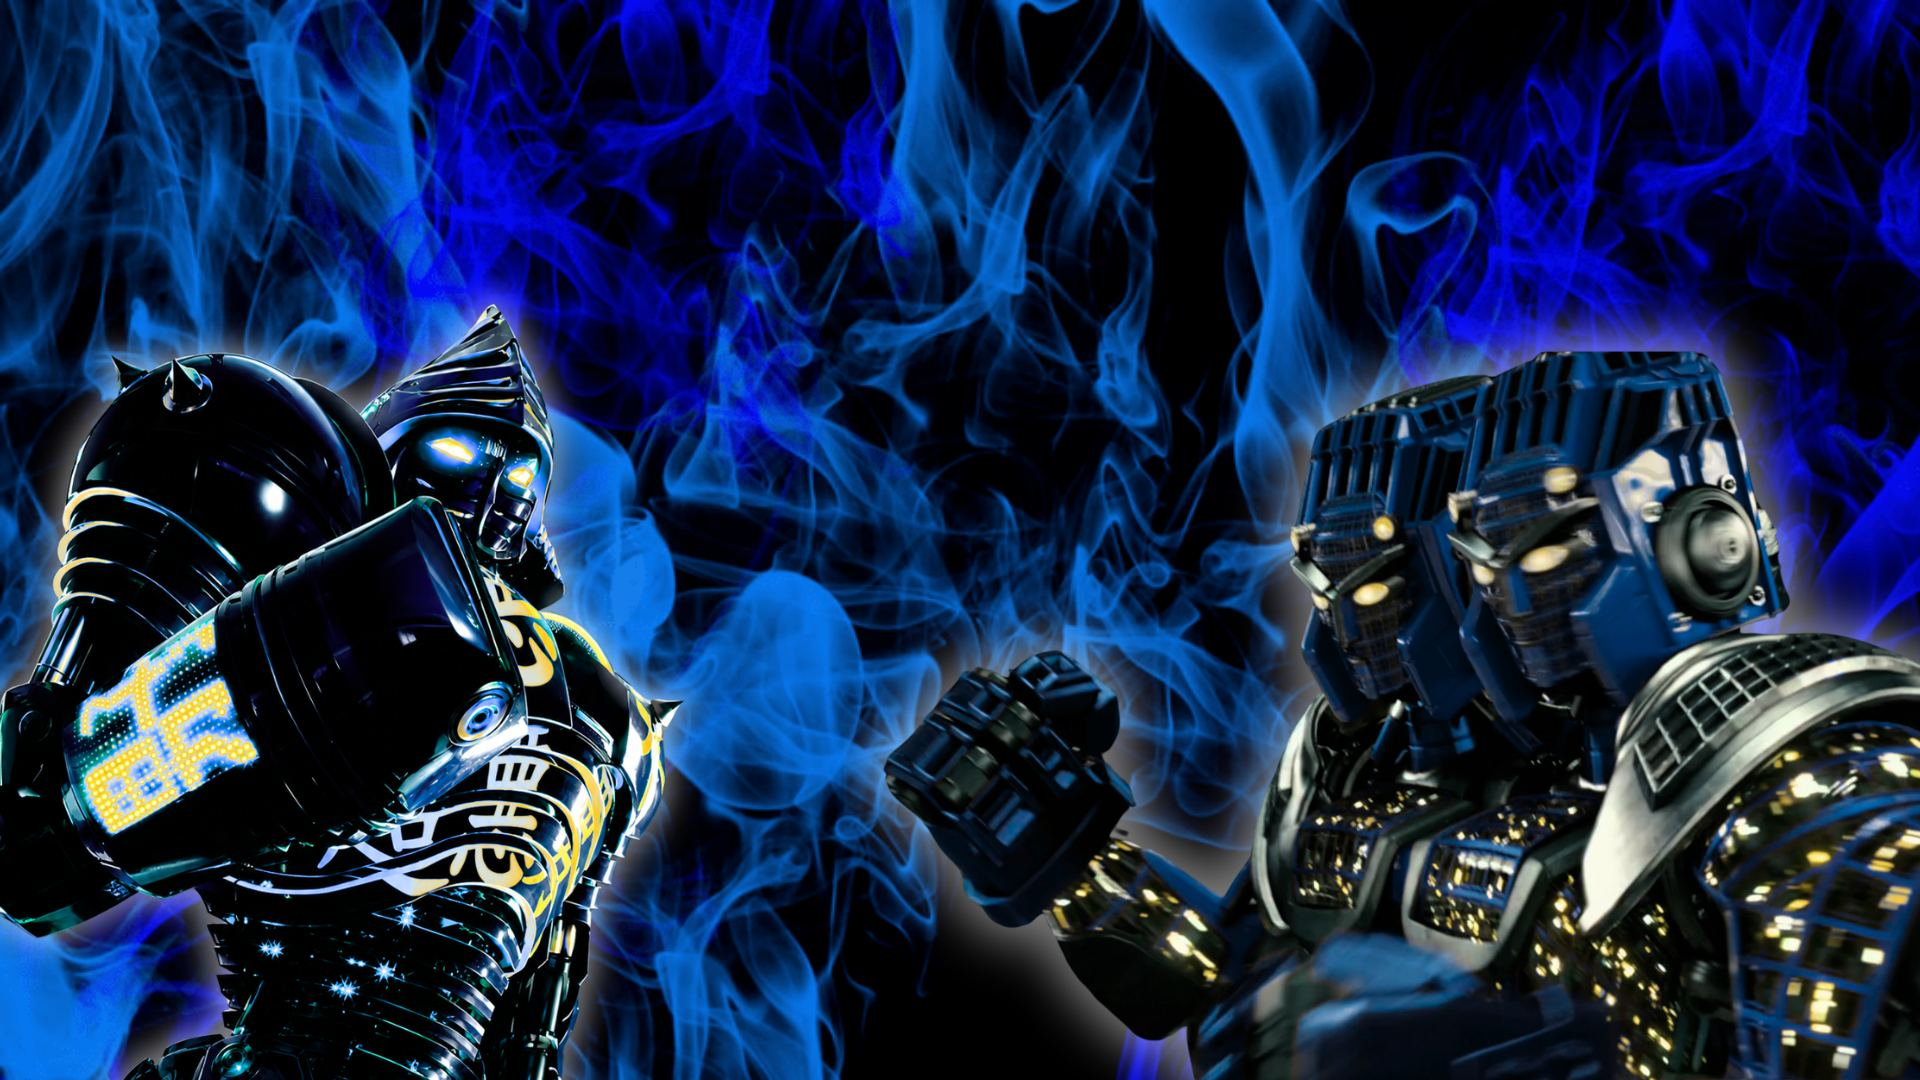
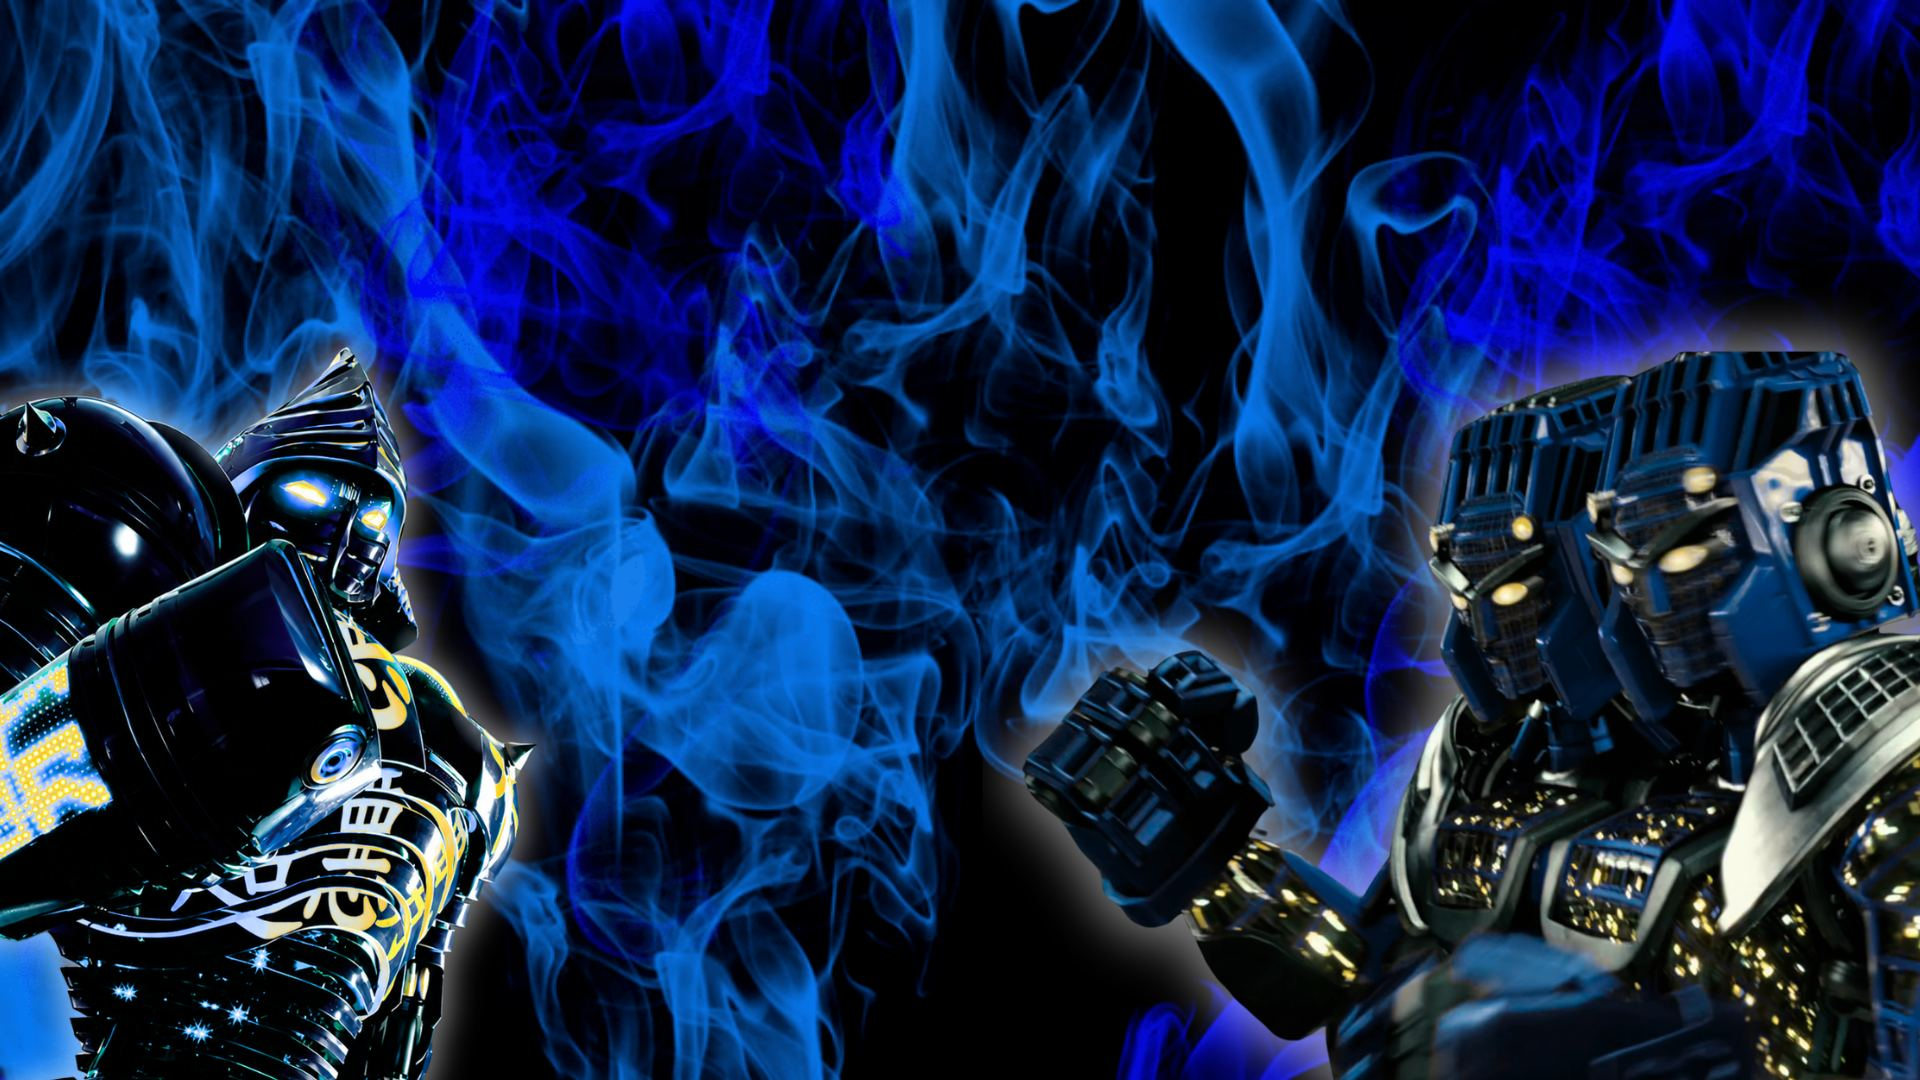
Use new background artwork and remove light/dark toggle
Claude-Session: https://claude.ai/code/session_01UrzSpbG2VhTJGwgdXRng7B

diff --git a/index.html b/index.html
@@ -7,7 +7,6 @@
 <style id="app-style">
[1 lines of base64/hex data omitted]
 :root{--bg:#0a1534;--nav:#0f2557;--ink:#f4f7ff;--mute:#8ec5ff;--panel:#112a66;--line:#0b1a45;--acc:#3e61ef;--yellow:#ffbe27;--yellow-d:#b57f00;--sky:#8ec5ff;--navy:#0f2557;--ink-d:#0b1a45;--soft:#e3f0ff;--win:#0d6b3a;--winbg:#d8f6e4;--dot:#46d97b;--shadow:rgba(0,0,0,.45);--veil:rgba(8,18,48,.5);color-scheme:dark;padding-top:env(safe-area-inset-top,0px);padding-bottom:env(safe-area-inset-bottom,0px)}
-:root[data-theme="light"]{--bg:#e6efff;--ink:#0f2557;--mute:#2f55d4;--panel:#ffffff;--soft:#e3f0ff;--shadow:rgba(15,37,87,.35);--veil:rgba(230,239,255,.78);color-scheme:light}
 html{scroll-padding-top:env(safe-area-inset-top,0px)}
 *{box-sizing:border-box}
 body{margin:0;overflow-x:hidden;color:var(--ink);font-family:Prompt,"Noto Sans Thai","Sarabun",system-ui,sans-serif;font-synthesis:none;line-height:1.5;background:var(--bg)}
@@ -17,10 +16,7 @@ h1{font-size:26px;font-weight:800;margin:0;color:#fff;text-shadow:2px 2px 0 var(
 .sub{display:flex;align-items:center;gap:8px;color:var(--mute);margin:0 0 18px;font-size:14px;font-weight:600}
 .sub::before{content:"";width:9px;height:9px;border-radius:50%;background:var(--dot);box-shadow:0 0 0 3px rgba(70,217,123,.25);flex:none}
 a{color:var(--sky);font-weight:600}
-:root[data-theme="light"] a{color:var(--acc)}
-.top{display:grid;grid-template-columns:40px 1fr 40px;align-items:center;gap:8px;text-align:center;background:var(--nav);margin:-20px calc(50% - 50vw) 20px;padding:14px calc(50vw - 50%);border-bottom:4px solid var(--yellow);box-shadow:0 6px 0 var(--ink-d)}
-.top::before{content:""}
-.btn.ico{padding:8px;line-height:0;border-radius:50%;flex:none;justify-self:end;background:var(--sky);color:var(--ink-d)}
+.top{display:flex;justify-content:center;align-items:center;text-align:center;background:var(--nav);margin:-20px calc(50% - 50vw) 20px;padding:14px calc(50vw - 50%);border-bottom:4px solid var(--yellow);box-shadow:0 6px 0 var(--ink-d)}
 .bar{display:flex;flex-wrap:wrap;gap:10px;align-items:center;margin-bottom:14px}
 .bar .grow{flex:1}
 button{font:inherit;cursor:pointer;color:inherit}
@@ -37,16 +33,12 @@ button:focus-visible,input:focus-visible,a:focus-visible{outline:3px solid var(-
 .msg.warn{color:var(--yellow)}
 .msg.err{color:#ff7f8e}
 .msg.ok{color:var(--dot)}
-:root[data-theme="light"] .msg.warn{color:#9a6a00}
-:root[data-theme="light"] .msg.err{color:#d7263d}
-:root[data-theme="light"] .msg.ok{color:var(--win)}
 #names{display:none;background:var(--panel);border:2.5px solid var(--ink-d);border-radius:12px;padding:14px;margin-bottom:16px;box-shadow:4px 4px 0 var(--shadow)}
 #names.on{display:block}
 #names p{margin:0 0 10px;font-size:14px;color:var(--mute)}
 .ng{display:grid;grid-template-columns:repeat(auto-fill,minmax(150px,1fr));gap:8px}
 .ng label{display:flex;align-items:center;gap:6px;font-size:13px}
 .ng b{width:18px;color:var(--yellow);font-weight:800}
-:root[data-theme="light"] .ng b{color:var(--acc)}
 .ng input{flex:1;min-width:0;font:inherit;font-size:14px;padding:5px 8px;border:2px solid var(--ink-d);border-radius:8px;background:#fff;color:var(--navy)}
 .scroll{overflow-x:auto;padding:8px 0 12px;background:var(--panel);border:3px solid var(--ink-d);border-radius:0;box-shadow:none}
 #scaler{margin:0 auto}
@@ -202,7 +194,7 @@ function updText(){
   try{return 'อัปเดตล่าสุด '+new Date(saved.updated).toLocaleString('th-TH',{dateStyle:'medium',timeStyle:'short'})}catch(e){return ''}
 }
 function skeleton(adm){
-  return `<div class="top"><h1>${adm?'จัดการสายการแข่งขัน Real Steel':'สายการแข่งขัน Real Steel'}</h1><button class="btn ico" id="themeBtn" aria-label="สลับโหมดสว่าง/มืด"></button></div>
+  return `<div class="top"><h1>${adm?'จัดการสายการแข่งขัน Real Steel':'สายการแข่งขัน Real Steel'}</h1></div>
 <p class="sub"></p>
 <div class="bar">${adm?'<button class="btn pri" id="saveBtn">บันทึกและเผยแพร่</button><button class="btn" id="editBtn">แก้ไขชื่อผู้เล่น</button><button class="btn danger" id="resetBtn">ล้างผลการแข่ง</button><a class="btn" href="#">ดูหน้าผู้ชม</a><button class="btn" id="outBtn">ออกจากระบบ</button>':''}<span class="grow"></span><span class="prog" id="prog"></span></div>
 ${adm?'<div class="msg" id="msg"></div><div id="names"><p>พิมพ์ชื่อใหม่ได้เลย (ค่าเริ่มต้น A–P) ผลที่เลือกไว้จะอยู่กับผู้เล่นคนเดิม</p><div class="ng" id="ng"></div><p style="margin:10px 0 0"><button class="btn" id="nameReset">คืนค่าชื่อเป็น A–P</button></p></div>':''}
@@ -256,10 +248,6 @@ function route(){
   const adm=isAdm();
   if(adm&&!loggedIn()){showLogin();return}
   $('app').innerHTML=skeleton(adm);
-  themeIcon();$('themeBtn').onclick=()=>{
-    const r=document.documentElement,dark=r.dataset.theme!=='light';
-    r.dataset.theme=dark?'light':'dark';themeIcon();
-  };
   if(adm){
     const ng=$('ng');
     ng.innerHTML=S.names.map((n,i)=>`<label><b>${L[i]}</b><input maxlength="24" data-i="${i}" value="${esc(n)}"></label>`).join('');
@@ -287,13 +275,6 @@ function route(){
     };
   }
   draw();
-}
-const SUN='<svg viewBox="0 0 24 24" width="20" height="20" fill="none" stroke="currentColor" stroke-width="2" stroke-linecap="round"><circle cx="12" cy="12" r="4" fill="currentColor"/><path d="M12 2v2M12 20v2M4.9 4.9l1.4 1.4M17.7 17.7l1.4 1.4M2 12h2M20 12h2M4.9 19.1l1.4-1.4M17.7 6.3l1.4-1.4"/></svg>';
-const MOON='<svg viewBox="0 0 24 24" width="20" height="20" fill="currentColor"><path d="M21 12.8A9 9 0 1 1 11.2 3a7 7 0 0 0 9.8 9.8z"/></svg>';
-function themeIcon(){
-  const r=document.documentElement,b=$('themeBtn');if(!b)return;
-  const dark=r.dataset.theme!=='light';
-  b.innerHTML=dark?SUN:MOON;
 }
 function fit(){}
 addEventListener('resize',fit);

diff --git a/สายการแข่งขัน Real Steel.html b/สายการแข่งขัน Real Steel.html
@@ -7,7 +7,6 @@
 <style id="app-style">
[1 lines of base64/hex data omitted]
 :root{--bg:#0a1534;--nav:#0f2557;--ink:#f4f7ff;--mute:#8ec5ff;--panel:#112a66;--line:#0b1a45;--acc:#3e61ef;--yellow:#ffbe27;--yellow-d:#b57f00;--sky:#8ec5ff;--navy:#0f2557;--ink-d:#0b1a45;--soft:#e3f0ff;--win:#0d6b3a;--winbg:#d8f6e4;--dot:#46d97b;--shadow:rgba(0,0,0,.45);--veil:rgba(8,18,48,.5);color-scheme:dark;padding-top:env(safe-area-inset-top,0px);padding-bottom:env(safe-area-inset-bottom,0px)}
-:root[data-theme="light"]{--bg:#e6efff;--ink:#0f2557;--mute:#2f55d4;--panel:#ffffff;--soft:#e3f0ff;--shadow:rgba(15,37,87,.35);--veil:rgba(230,239,255,.78);color-scheme:light}
 html{scroll-padding-top:env(safe-area-inset-top,0px)}
 *{box-sizing:border-box}
 body{margin:0;overflow-x:hidden;color:var(--ink);font-family:Prompt,"Noto Sans Thai","Sarabun",system-ui,sans-serif;font-synthesis:none;line-height:1.5;background:var(--bg)}
@@ -17,10 +16,7 @@ h1{font-size:26px;font-weight:800;margin:0;color:#fff;text-shadow:2px 2px 0 var(
 .sub{display:flex;align-items:center;gap:8px;color:var(--mute);margin:0 0 18px;font-size:14px;font-weight:600}
 .sub::before{content:"";width:9px;height:9px;border-radius:50%;background:var(--dot);box-shadow:0 0 0 3px rgba(70,217,123,.25);flex:none}
 a{color:var(--sky);font-weight:600}
-:root[data-theme="light"] a{color:var(--acc)}
-.top{display:grid;grid-template-columns:40px 1fr 40px;align-items:center;gap:8px;text-align:center;background:var(--nav);margin:-20px calc(50% - 50vw) 20px;padding:14px calc(50vw - 50%);border-bottom:4px solid var(--yellow);box-shadow:0 6px 0 var(--ink-d)}
-.top::before{content:""}
-.btn.ico{padding:8px;line-height:0;border-radius:50%;flex:none;justify-self:end;background:var(--sky);color:var(--ink-d)}
+.top{display:flex;justify-content:center;align-items:center;text-align:center;background:var(--nav);margin:-20px calc(50% - 50vw) 20px;padding:14px calc(50vw - 50%);border-bottom:4px solid var(--yellow);box-shadow:0 6px 0 var(--ink-d)}
 .bar{display:flex;flex-wrap:wrap;gap:10px;align-items:center;margin-bottom:14px}
 .bar .grow{flex:1}
 button{font:inherit;cursor:pointer;color:inherit}
@@ -37,16 +33,12 @@ button:focus-visible,input:focus-visible,a:focus-visible{outline:3px solid var(-
 .msg.warn{color:var(--yellow)}
 .msg.err{color:#ff7f8e}
 .msg.ok{color:var(--dot)}
-:root[data-theme="light"] .msg.warn{color:#9a6a00}
-:root[data-theme="light"] .msg.err{color:#d7263d}
-:root[data-theme="light"] .msg.ok{color:var(--win)}
 #names{display:none;background:var(--panel);border:2.5px solid var(--ink-d);border-radius:12px;padding:14px;margin-bottom:16px;box-shadow:4px 4px 0 var(--shadow)}
 #names.on{display:block}
 #names p{margin:0 0 10px;font-size:14px;color:var(--mute)}
 .ng{display:grid;grid-template-columns:repeat(auto-fill,minmax(150px,1fr));gap:8px}
 .ng label{display:flex;align-items:center;gap:6px;font-size:13px}
 .ng b{width:18px;color:var(--yellow);font-weight:800}
-:root[data-theme="light"] .ng b{color:var(--acc)}
 .ng input{flex:1;min-width:0;font:inherit;font-size:14px;padding:5px 8px;border:2px solid var(--ink-d);border-radius:8px;background:#fff;color:var(--navy)}
 .scroll{overflow-x:auto;padding:8px 0 12px;background:var(--panel);border:3px solid var(--ink-d);border-radius:0;box-shadow:none}
 #scaler{margin:0 auto}
@@ -202,7 +194,7 @@ function updText(){
   try{return 'อัปเดตล่าสุด '+new Date(saved.updated).toLocaleString('th-TH',{dateStyle:'medium',timeStyle:'short'})}catch(e){return ''}
 }
 function skeleton(adm){
-  return `<div class="top"><h1>${adm?'จัดการสายการแข่งขัน Real Steel':'สายการแข่งขัน Real Steel'}</h1><button class="btn ico" id="themeBtn" aria-label="สลับโหมดสว่าง/มืด"></button></div>
+  return `<div class="top"><h1>${adm?'จัดการสายการแข่งขัน Real Steel':'สายการแข่งขัน Real Steel'}</h1></div>
 <p class="sub"></p>
 <div class="bar">${adm?'<button class="btn pri" id="saveBtn">บันทึกและเผยแพร่</button><button class="btn" id="editBtn">แก้ไขชื่อผู้เล่น</button><button class="btn danger" id="resetBtn">ล้างผลการแข่ง</button><a class="btn" href="#">ดูหน้าผู้ชม</a><button class="btn" id="outBtn">ออกจากระบบ</button>':''}<span class="grow"></span><span class="prog" id="prog"></span></div>
 ${adm?'<div class="msg" id="msg"></div><div id="names"><p>พิมพ์ชื่อใหม่ได้เลย (ค่าเริ่มต้น A–P) ผลที่เลือกไว้จะอยู่กับผู้เล่นคนเดิม</p><div class="ng" id="ng"></div><p style="margin:10px 0 0"><button class="btn" id="nameReset">คืนค่าชื่อเป็น A–P</button></p></div>':''}
@@ -256,10 +248,6 @@ function route(){
   const adm=isAdm();
   if(adm&&!loggedIn()){showLogin();return}
   $('app').innerHTML=skeleton(adm);
-  themeIcon();$('themeBtn').onclick=()=>{
-    const r=document.documentElement,dark=r.dataset.theme!=='light';
-    r.dataset.theme=dark?'light':'dark';themeIcon();
-  };
   if(adm){
     const ng=$('ng');
     ng.innerHTML=S.names.map((n,i)=>`<label><b>${L[i]}</b><input maxlength="24" data-i="${i}" value="${esc(n)}"></label>`).join('');
@@ -287,13 +275,6 @@ function route(){
     };
   }
   draw();
-}
-const SUN='<svg viewBox="0 0 24 24" width="20" height="20" fill="none" stroke="currentColor" stroke-width="2" stroke-linecap="round"><circle cx="12" cy="12" r="4" fill="currentColor"/><path d="M12 2v2M12 20v2M4.9 4.9l1.4 1.4M17.7 17.7l1.4 1.4M2 12h2M20 12h2M4.9 19.1l1.4-1.4M17.7 6.3l1.4-1.4"/></svg>';
-const MOON='<svg viewBox="0 0 24 24" width="20" height="20" fill="currentColor"><path d="M21 12.8A9 9 0 1 1 11.2 3a7 7 0 0 0 9.8 9.8z"/></svg>';
-function themeIcon(){
-  const r=document.documentElement,b=$('themeBtn');if(!b)return;
-  const dark=r.dataset.theme!=='light';
-  b.innerHTML=dark?SUN:MOON;
 }
 function fit(){}
 addEventListener('resize',fit);
